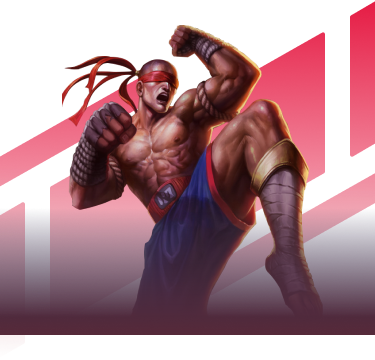
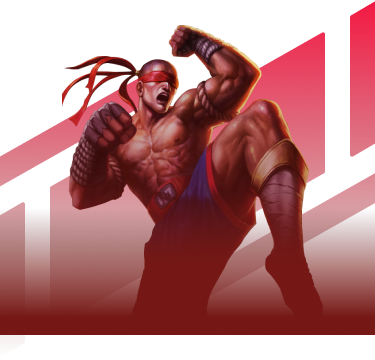
Estilização global e statusbar

diff --git a/App.tsx b/App.tsx
@@ -1,11 +1,15 @@
-import { StatusBar } from 'expo-status-bar';
 import React from 'react';
-import { StyleSheet, Text, View } from 'react-native';
+import { StyleSheet, Text, View, StatusBar } from 'react-native';
 import { SignIn } from './src/screens/SignIn';
 
 export default function App() {
   return (
     <View style={styles.container}>
+        <StatusBar 
+        barStyle="light-content"
+        backgroundColor="transparent"
+        translucent
+      />
       <SignIn/>
     </View>
   );
@@ -14,8 +18,5 @@ export default function App() {
 const styles = StyleSheet.create({
   container: {
     flex: 1,
-    backgroundColor: '#fff',
-    alignItems: 'center',
-    justifyContent: 'center',
   },
 });

diff --git a/src/screens/SignIn/styles.ts b/src/screens/SignIn/styles.ts
@@ -1,11 +1,15 @@
 import { StyleSheet } from 'react-native'
+import { theme } from '../../global/styles/theme'
 
 export const styles = StyleSheet.create({
     container: {
         flex: 1,
-        backgroundColor: '#fff',
         alignItems: 'center',
         justifyContent: 'center',
+        backgroundColor: theme.colors.background,
+    },
+    content: {
+
     },
     image: {
 

diff --git a/src/screens/SignIn/index.tsx b/src/screens/SignIn/index.tsx
@@ -9,7 +9,8 @@ export function SignIn () {
   return(
     <View style={styles.container}>
       <Image source={IllustrationImg} style={styles.image}/>
-      <View style={styles.container}>
+
+      <View style={styles.content}>
         <Text style={styles.title}>
           Organize {`\n`}
           suas jogatinas {`\n`}

diff --git a/src/global/styles/theme.ts b/src/global/styles/theme.ts
@@ -1,0 +1,6 @@
+export const theme = {
+    colors: {
+        background: '#751815',
+        heading: '#DDE3F0'
+    }
+}
